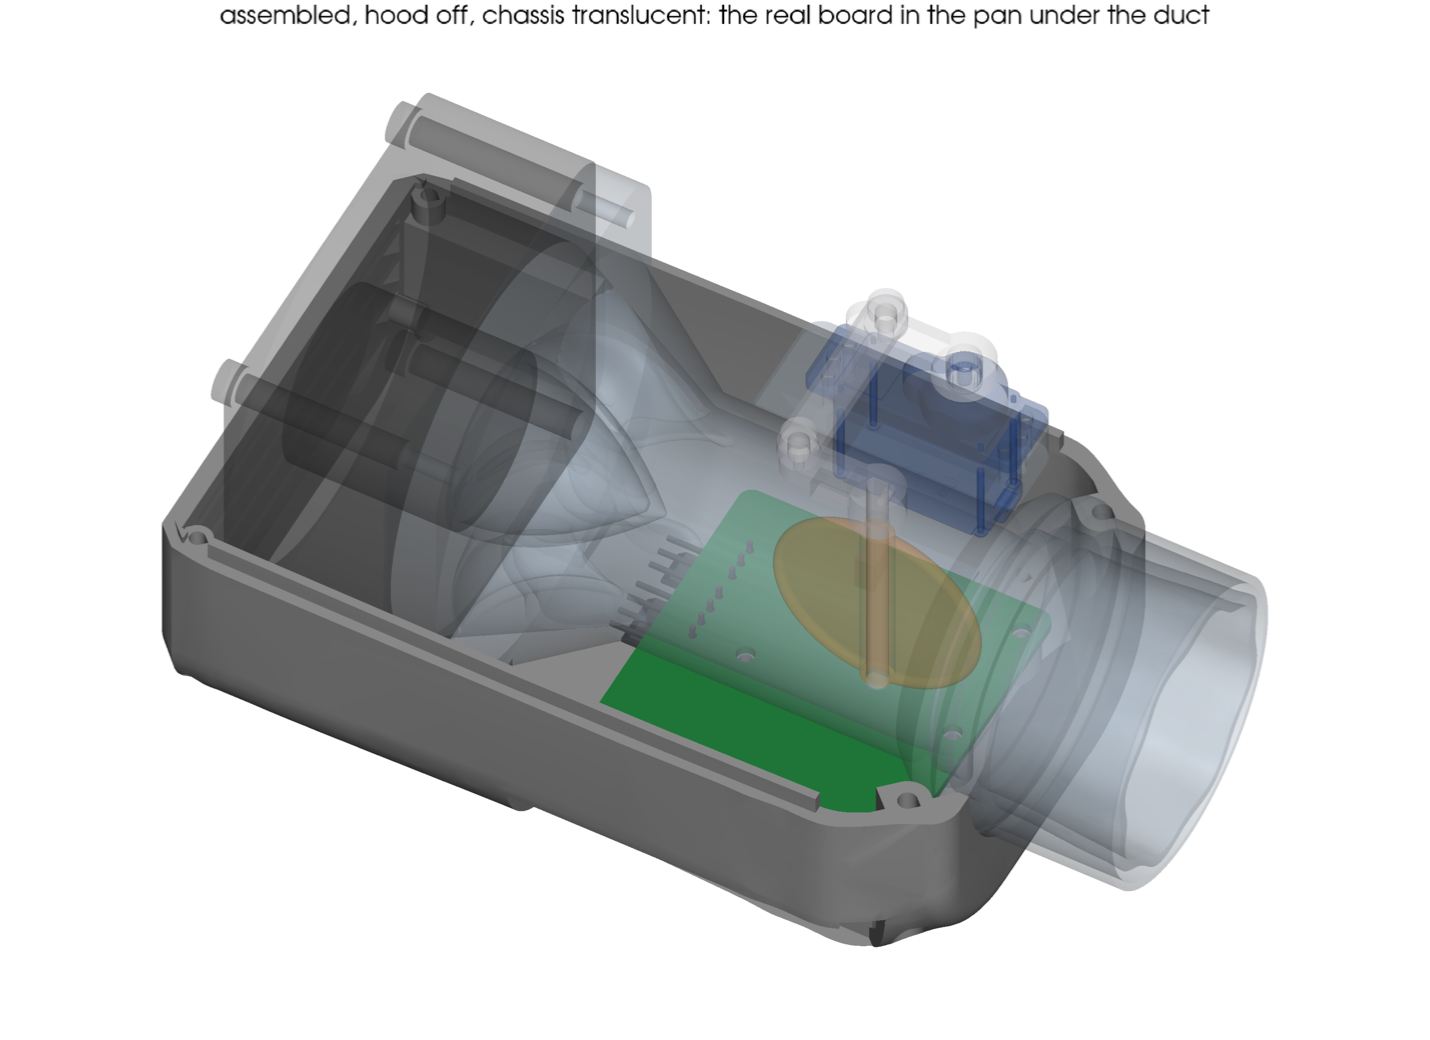
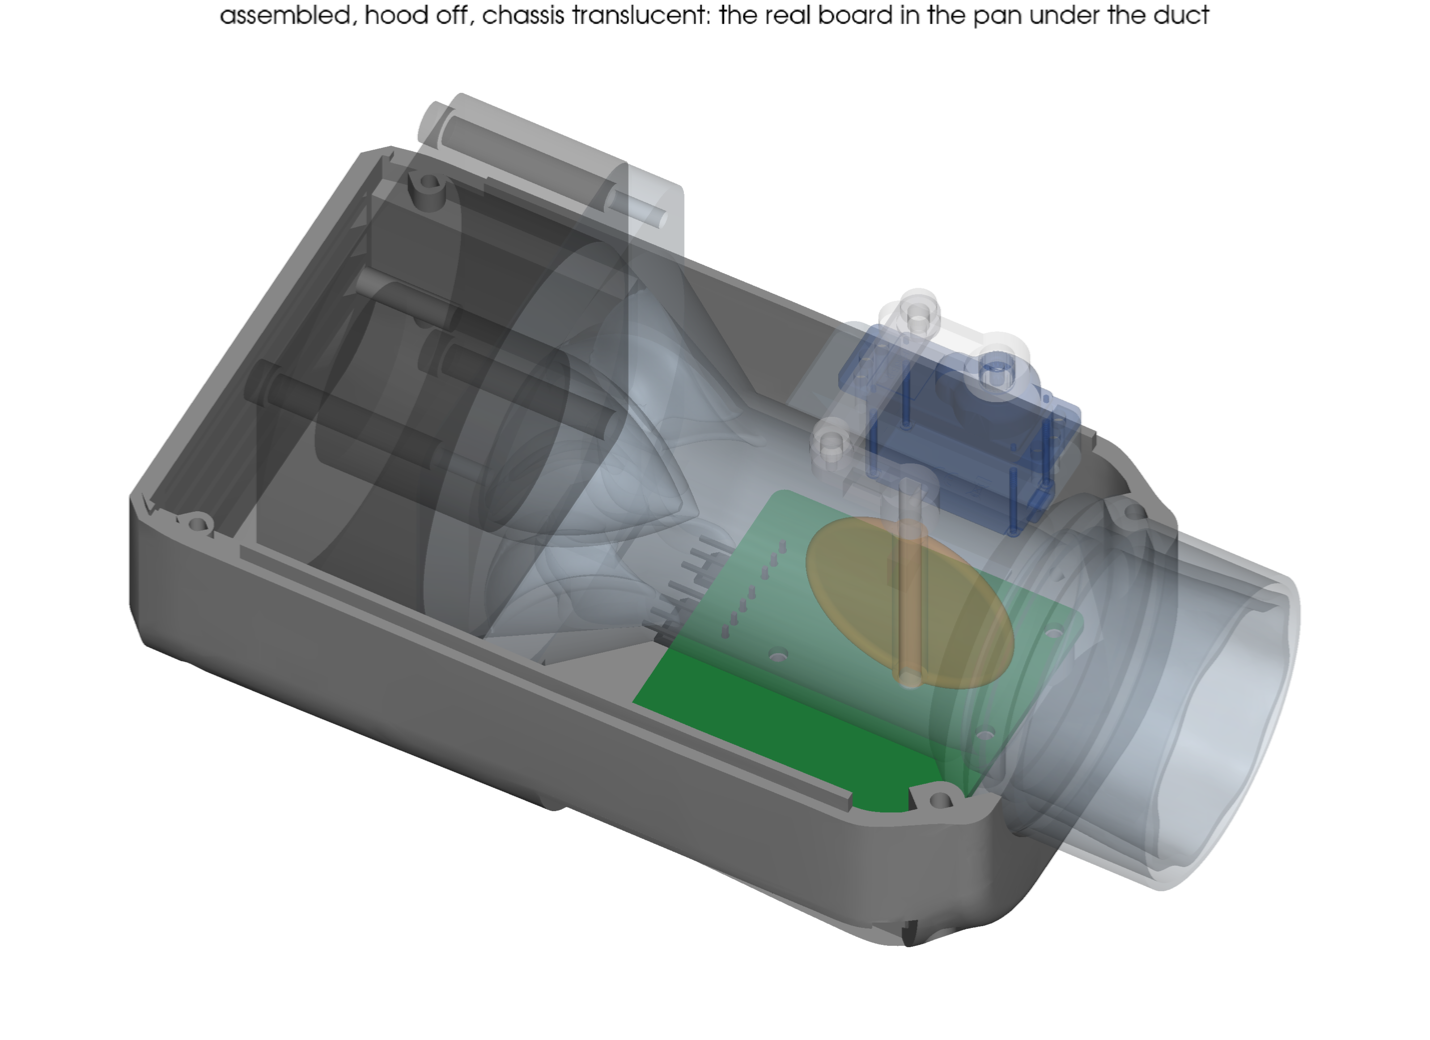
Mech: a 14.5 mm plenum in front of the fan (minimeat-seq.2.28). The grille CFD (cfd/grille.py) left the fan 2.9 Pa of its free-air 12.0 static at 4.2 CFM with the louvres 4.5 mm off it; 5/10/20/30 mm more gave 5.0/6.7/7.4/8.3, so Layout.rear_gap is 14.5, the knee. The shell grows 10 mm behind the fa

Changed region(s): [[0.0923, 0.0923, 0.9231, 0.9231], [0.2462, 0.7077, 0.4308, 0.8]]

diff --git a/src/minimeater/mech/parts.py b/src/minimeater/mech/parts.py
@@ -12,6 +12,7 @@ from build123d import (
     Align,
     Axis,
     Box,
+    Circle,
     Cone,
     Cylinder,
     Edge,
@@ -215,15 +216,45 @@ def stop_posts():
 def hub_profile(t):
     """The tail cone's radius at t = 0 (the fan's plate) .. 1 (the tip)."""
     h = P.hub_cone
-    return P.fan.hub_d / 2 * (1 - t**h.exponent)
+    return P.fan.hub_d / 2 * max(1 - t**h.exponent, 0.0) ** h.tail
+
+
+def wall_r(x):
+    """The contraction's wall at x, from the fan's bore at its outlet face to the duct's bore (`P.contraction`)."""
+    t = min(max((x - g.fan_face_x) / (g.straight_x0 - g.fan_face_x), 0.0), 1.0)
+    f = {"cone": t, "cubic": t * t * (3 - 2 * t), "quintic": smootherstep(t)}[P.contraction]
+    return P.fan.aperture_d / 2 + (g.bore_r - P.fan.aperture_d / 2) * f
+
+
+def contraction(offset=0.0, x0=None, x1=None):
+    """The solid of revolution inside the contraction's wall pushed out by `offset`, from x0 to x1 (default the fan's
+    face to the bore's start); a cone, or a loft through circles on the curved wall (a revolved spline, run into the
+    bore's cylinder tangent, failed OCC's booleans)."""
+    x0 = g.fan_face_x if x0 is None else x0
+    x1 = g.straight_x0 if x1 is None else x1
+    if P.contraction == "cone":
+        return xcone(wall_r(x0) + offset, wall_r(x1) + offset, x0, x1)
+    n = 16
+    return loft([Plane.YZ.offset(x) * Circle(wall_r(x) + offset) for x in (x0 + (x1 - x0) * i / n for i in range(n + 1))])
+
+
+def airway(offset=0.0, x0=None, x1=None):
+    """The airway pushed out by `offset` from x0 to x1: the fan's bore before its face, the contraction, the duct's bore
+    after it. The pieces butt end to end: overlapped, a curved wall's tangent run into the cylinder fails the booleans."""
+    xa, xb = g.fan_face_x, g.straight_x0
+    out = contraction(offset, max(x0, xa), min(x1, xb))
+    if x0 < xa:
+        out += xcyl(P.fan.aperture_d / 2 + offset, x0, xa)
+    if x1 > xb:
+        out += xcyl(g.bore_r + offset, xb, x1)
+    return out
 
 
 def vane_passage(x):
     """The air's annulus at x between the tail cone and the contraction's wall: (r_hub, r_wall)."""
     h, x0 = P.hub_cone, g.fan_face_x
     t = min(max((x - x0) / h.length, 0.0), 1.0)
-    f = min(max((x - x0) / (g.straight_x0 - x0), 0.0), 1.0)
-    return hub_profile(t), P.fan.aperture_d / 2 + (g.bore_r - P.fan.aperture_d / 2) * f
+    return hub_profile(t), wall_r(x)
 
 
 def _interp(x, knots):
@@ -363,7 +394,8 @@ def hub_cone(solid=False):
     Hollow and open toward the fan unless `solid` (the CFD's air volume wants the outside only)."""
     h, x0, n = P.hub_cone, g.fan_face_x, 80
     outer = [(x0 + h.length * i / n, hub_profile(i / n)) for i in range(n + 1)]
-    outer = [p for p in outer if p[1] >= 0.3]  # the point ends in a 0.6 mm flat: a surface that closes on the axis meshes open
+    tip = 0.3 if h.tail <= 1 else 0.75  # the point ends in a flat: a surface that closes on the axis meshes open; a cusp's needle is cut at Ø1.5 (MJF)
+    outer = [p for p in outer if p[1] >= tip]
     body = revolve(make_face(Plane.XZ * Polyline((x0, 0.0), *outer, (outer[-1][0], 0.0), close=True)), Axis.X, 360)
     if not solid:
         # the inside: the outer profile offset `wall` along its normal, closed on the axis where it runs out
@@ -376,13 +408,13 @@ def hub_cone(solid=False):
                 break
             inner.append((x, r))
         void = revolve(make_face(Plane.XZ * Polyline((x0 - 0.01, 0.0), (x0 - 0.01, inner[0][1]), *inner, (inner[-1][0], 0.0), close=True)), Axis.X, 360)  # a flat end, as the outside
-        body -= void
-    # the vanes, from inside the cone's shell out into the contraction's wall
-    wall = xcone(P.fan.aperture_d / 2 + 0.5, g.bore_r + 0.5, x0, g.straight_x0) + xcyl(g.bore_r + 0.5, g.straight_x0 - 0.01, g.straight_x0 + 10.0)
+    # the vanes, from inside the cone out into the contraction's wall
+    wall = airway(0.5, g.fan_face_x, g.straight_x0 + 10.0)
     one = vane() & wall
     for i in range(h.vanes):
-        v = Rot(h.vane_clock + 360 * i / h.vanes, 0, 0) * one
-        body += v if solid else v - void  # from the cone's shell out, not across the cup
+        body += Rot(h.vane_clock + 360 * i / h.vanes, 0, 0) * one
+    if not solid:
+        body -= void  # once, after the vanes: their roots go no further than the cone's shell (cut one by one, a thin tail's slivers left it invalid)
     return body
 
 
@@ -398,6 +430,7 @@ def duct():
     flange = flange.fillet(g.flange_r, flange.edges().filter_by(Axis.X))
     outer = flange
     outer += xcone(w / 2, dr, g.fan_face_x + g.flange_t, g.straight_x0)
+    outer += airway(dr - br, g.fan_face_x + g.flange_t - 0.5, g.straight_x0)  # a curved wall keeps the bore's 2.2 mm under the cone
     k = P.layout.slope
     flare = (c.od / 2 - dr) * k  # the socket's step, at 44 degrees: it prints flange down
     outer += xcyl(dr, g.straight_x0, g.socket_x0 - flare + 0.01)
@@ -416,9 +449,8 @@ def duct():
     body = outer + servo_shelf() + stop_posts()
 
     # the airway and the features cut into the walls
-    body -= xcone(P.fan.aperture_d / 2, br, g.fan_face_x - 0.1, g.straight_x0)
     x_neck = g.socket_x0 - c.neck_len
-    body -= xcyl(br, g.straight_x0 - 0.01, x_neck + 0.01)
+    body -= airway(0.0, g.fan_face_x - 0.1, x_neck + 0.01)
     body -= xcone(br, P.tube.id / 2, x_neck, g.socket_x0 + 0.01)  # the neck down to the tube's bore
     body -= socket_loft()  # it stops at the flat shoulder the tube's end face sits on
     body -= xcyl(sock_r(), g.socket_x0 - 0.5, g.socket_x0 + 0.01) - xcyl(P.tube.od / 2 - c.seat_relief, g.socket_x0 - 1, g.socket_x0 + 1)  # the seat's corner relief

diff --git a/src/minimeater/mech/params.py b/src/minimeater/mech/params.py
@@ -221,7 +221,7 @@ class Layout:
     board_x1: float = -24.5  # board's front edge: under the socket flare's first mm, clear of the shells' front cone
     straight_over: float = 2.5  # the board's rear edge may sit this far into the cone (its outer r grows 0.5/mm): 1.0 for the parts, plus Pcb.usb_end, where only the USB-C stands
     x_front: float = -11.0  # the front face: the socket's last 11 mm and its extension are outside
-    rear_gap: float = 4.5  # fan's rear face to the rear wall's inner face: the fan screw heads and the inlet
+    rear_gap: float = 14.5  # fan's rear face to the rear wall's inner face: the plenum in front of the rotor. The grille CFD (cfd/grille.py, docs/cfd.md) leaves the fan 2.9 Pa of its 12.0 at 4.5 mm, 6.7 at 14.5, 7.4 at 24.5: the knee
     front_screw_x: float = -18.0  # the front shell screws, in the shells' thick front zone
     slope: float = 1.0355  # run per rise of every designed overhang: 44 degrees, inside the 45 the printer allows
 
@@ -301,6 +301,7 @@ class HubCone:
 
     length: float = 27.0  # the tip at the bore's start (Params.cone_len): the annulus' area falls all the way
     exponent: float = 2.0  # radius r0 (1 - t^n): parallel to the axis at the plate, so the flow leaves its edge without a turn
+    tail: float = 1.0  # ... to the power b: 1 ends in a point (44 deg at n = 2), above 1 the tail runs into the axis tangent (a cusp)
     wall: float = 1.6  # hollow, open toward the fan: MJF is priced by volume and a closed hollow traps powder
     # stator vanes from the contraction's wall carry it and take out the fan's swirl (.2.25): the rotor leaves the air
     # turning with it, a free vortex (r c_theta constant) whose dynamic head is otherwise lost in the tube
@@ -338,6 +339,7 @@ class Params:
     hub_cone: HubCone = field(default_factory=HubCone)
     mass: Mass = field(default_factory=Mass)
     cone_len: float = 27.0
+    contraction: str = "cone"  # the airway's wall from the fan's bore to the duct's: "cone" (straight, a corner at each end), "cubic" or "quintic" (smoothstep, smootherstep: tangent to both)
     screw_d: float = 2.5  # M2.5 self-tapping into plastic: pilot hole
 
 

diff --git a/src/minimeater/mech/cfd/geometry.py b/src/minimeater/mech/cfd/geometry.py
@@ -15,7 +15,7 @@ from .. import mock
 from ..assembly import about_shaft
 from ..geom import g
 from ..params import P
-from ..parts import flap, hub_cone, xcone, xcyl
+from ..parts import airway, flap, hub_cone, xcone, xcyl
 
 FAN_STUB = 5.0  # the fan's outlet annulus ahead of its face: the hub's wake starts at the face
 
@@ -42,10 +42,8 @@ def stations(tube_d: float) -> Stations:
 def fluid(flap_deg: float, tube_d: float, dm=None):
     """The air volume with the flap at `flap_deg` (0 open, 90 closed); `dm` a variant of the damper's parameters (variants.py)."""
     s = stations(tube_d)
-    air = xcyl(s.r_fan, s.x_in, s.x_fan + 0.01) - xcyl(s.r_hub, s.x_in - 1, s.x_fan)
-    air += xcone(s.r_fan, s.r_bore, s.x_fan, s.x_bore)
     x_neck = s.x_tube - P.coupling.neck_len
-    air += xcyl(s.r_bore, s.x_bore - 0.01, x_neck + 0.01)
+    air = airway(0.0, s.x_in, x_neck + 0.01) - xcyl(s.r_hub, s.x_in - 1, s.x_fan)
     air += xcone(s.r_bore, s.r_tube, x_neck, s.x_tube + 0.01)
     air += xcyl(s.r_tube, s.x_tube - 0.01, s.x_out)
     air -= hub_cone(solid=True)  # the tail cone on the fan's plate and its struts

diff --git a/src/minimeater/mech/cfd/grille.py b/src/minimeater/mech/cfd/grille.py
@@ -85,7 +85,10 @@ def wall(c: GrilleCase):
     x2 = G.g.fan_face_x - 1.0  # into fan.seal, which carries the walls on as the pipe's
     hole = extrude(Pos(x1 - c.gap - 0.3 - sec.center().X, 0, 0) * sec, x2 + 1 - (x1 - c.gap - 0.3), dir=(1, 0, 0))
     sleeve = box(x1 - c.gap - 0.3, x2, -HALF - 1, HALF + 1, -HALF - 1, HALF + 1) - hole
-    return plate + sleeve
+    out = plate + sleeve
+    if c.gap == 0:  # what stands in the plenum as the shells draw it: the fan's shim blocks and its four rest pads
+        out = out + shell.fan_shims() + shell.rear_bumps()
+    return out
 
 
 PATCHES = ("inlet", "outlet", "frame", "rotor", "pipe", "walls")

diff --git a/tests/test_skin.py b/tests/test_skin.py
@@ -38,8 +38,8 @@ def test_shells_clear_the_internals(shells, deg):
 
 def test_envelope():
     shell, with_nose = K.envelope()
-    assert shell == (118.2, 75.2, 73.9)  # x, y, z: the rear face to the front ring, the width, the belly to the crown
-    assert with_nose == (139.2, 75.2, 73.9)  # plus the exposed socket and its 10 mm extension
+    assert shell == (128.2, 75.2, 73.9)  # x, y, z: the rear face to the front ring, the width, the belly to the crown (rear_gap 14.5: +10)
+    assert with_nose == (149.2, 75.2, 73.9)  # plus the exposed socket and its 10 mm extension
 
 
 def test_the_bay_is_closed_over_the_ports(shells):

diff --git a/src/minimeater/mech/shell.py b/src/minimeater/mech/shell.py
@@ -278,7 +278,7 @@ def drip_lip():
 
 FRONT_BOSS = (P.layout.front_screw_x, 28.0)
 REAR_BOSS = (G.REAR_IN_X + P.layout.rear_gap / 2, S.rear_screw_y)
-REAR_BOSS_D = 4.5  # M2: the fan's rear gap (4.5) sets it; the column stands in the fan shim block, so the channel's sleeve is the block
+REAR_BOSS_D = 4.5  # M2; the column stands in the fan shim block, so the channel's sleeve is the block
 LAP = 1.2  # the rear wall's lip at the parting plane
 
 

diff --git a/docs/mech.md b/docs/mech.md
@@ -74,7 +74,7 @@ Form. One lofted body: rounded-rectangle sections on smooth profiles. The rear f
 
 Parting line. The plane z = 0, the tube axis: the hood (the egg's green) above, the pan (charcoal) below, so the seam runs through the nose's centre and the socket is the one element that comes out of the body. The hood lifts straight off: the socket leaves through the half-round notch. The pan drops away with the board; the chassis can stay on the tube on its thumbscrew. The label (40 × 10, 0.8 deep) is on the hood's -y flank over the ports.
 
-Fixings. Four screws from below, all hidden in the belly: M2.5 × 20 at (x = -18, y = ±28) up through the pan's thick front zone into bosses that merge with the hood's front cone, and M2 × 16 at (x = -119.4, y = ±33.3) through columns beside the fan's rear gap. Each has a teardrop counterbore from the belly for the head and the driver. The chassis is captured, not screwed: the collar against the front cone, the fan's rear face on four Ø4 pads inside the rear wall (0.3 mm of play), the flange on two wedges on the pan floor, and blocks on both shells' side walls that hold the fan sideways with 0.4 mm of play.
+Fixings. Four screws from below, all hidden in the belly: M2.5 × 20 at (x = -18, y = ±28) up through the pan's thick front zone into bosses that merge with the hood's front cone, and M2 × 16 at (x = -128.75, y = ±33.3) through columns beside the fan's rear plenum. Each has a teardrop counterbore from the belly for the head and the driver. The chassis is captured, not screwed: the collar against the front cone, the fan's rear face on four Ø4 pads inside the rear wall (0.3 mm of play), the flange on two wedges on the pan floor, and blocks on both shells' side walls that hold the fan sideways with 0.4 mm of play.
 
 Grille. Ten louvres 3.2 mm thick (across the slot) at 6.2 mm vertical pitch, so the blades between are 1.26 mm thick (they were 0.81: JLC3DP's thin-wall check flags anything under 1.2) in a 58 mm rounded square around the fan's axis, cut 44° so each slot descends outward (the field is sheared the same way, so every slot is open through the whole wall). Climbing inward, the top slots would break out through the rear chamfer, an upward face over the grille that rain would run into, so the cut keeps 1.2 mm of wall under the chamfer (`shell.under_chamfer`; a test holds it). Open area through the slots 1596 mm² (the inner grille of v0 had 1294). The slots stop 1.6 mm each side of the parting plane: the two halves of the rear wall meet in a bar.
 
@@ -108,8 +108,8 @@ Minimum feature 0.8 mm: the louvre blades are 1.1 at the faces, the webs between
 
 ## What the form costs
 
-- Length: the front cone that makes the shells printable eats the cavity's corners for the last 25 mm, so the board had to move 1.5 mm back; with the 5 mm rear gap for the fan's screw heads the body is 126 long against the 124 aimed at. The horizontal board costs 7 mm of height over a vertical one (73 against 66).
-- Airflow: the inlet turns 44° through the louvres; the open area is still 22 % more than v0's grille. The rear gap is 5 mm, so the inlet sees the pads and the screw heads.
+- Length: the front cone that makes the shells printable eats the cavity's corners for the last 25 mm, so the board had to move 1.5 mm back; with the 14.5 mm plenum behind the fan the body is 128 long (it was 118 with a 4.5 mm gap for the fan's screw heads). The horizontal board costs 7 mm of height over a vertical one (73 against 66).
+- Airflow: the inlet turns 44° through the louvres; the open area is still 22 % more than v0's grille. The rear gap is 14.5 mm, a plenum in front of the rotor: with the louvres 4.5 mm off it the coarse CFD left the fan 2.9 Pa of its 12 Pa static at 4.2 CFM; at 14.5 it keeps 7.3 (`docs/cfd.md`; 24.5 mm gave 7.4, so this is the knee). It costs 10 mm of length and 11 g, and moves the centre of mass 3 mm back.
 - Heat: the socket is outside the shells; the board is under the straight section, not under the socket. The servo is beside the cone, in the fan's air.
 - Service: the hood comes off upward on four screws from below; the pan brings the board with it; the chassis stays on the tube. The fan comes off the flange from the rear once the chassis is out. The duct pulls off the tube against the lobes' grip.
 - Plugs: the bay is under the body: plugging in is by feel from the side, the overmolds are 0.7 mm apart, and the recess is 7 mm, so a plug with an overmold longer than 18 mm stands proud of the flank.

diff --git a/docs/cfd.md b/docs/cfd.md
@@ -105,6 +105,10 @@ first 10 mm give back 3.8 Pa, the next 20 only 1.6 more. The S-louvre concept is
 and hub cover crowd the rotor's inflow. The mesh is coarse (grille level 2) and steady MRF of a fan near stall is the
 weakest part of these models, so take the trend, not the numbers.
 
+The gap is now 14.5 mm (`Layout.rear_gap`, `.2.28`). Run with the shells' own shim blocks and the four Ø4 rest pads
+standing in the plenum (`gap` 0 at the new rear_gap), the fan keeps 7.3 Pa static (15.6 total), the intake at 60° with
+23 % backflow: the pads, out at r 34 in the frame's corners, cost nothing measurable.
+
 ## Acoustics: `uv run minimeater-acoustics`
 
 `acoustics.py`: below the bore's first cross mode (6.3 kHz) only plane waves travel, so the path is a chain of transfer
